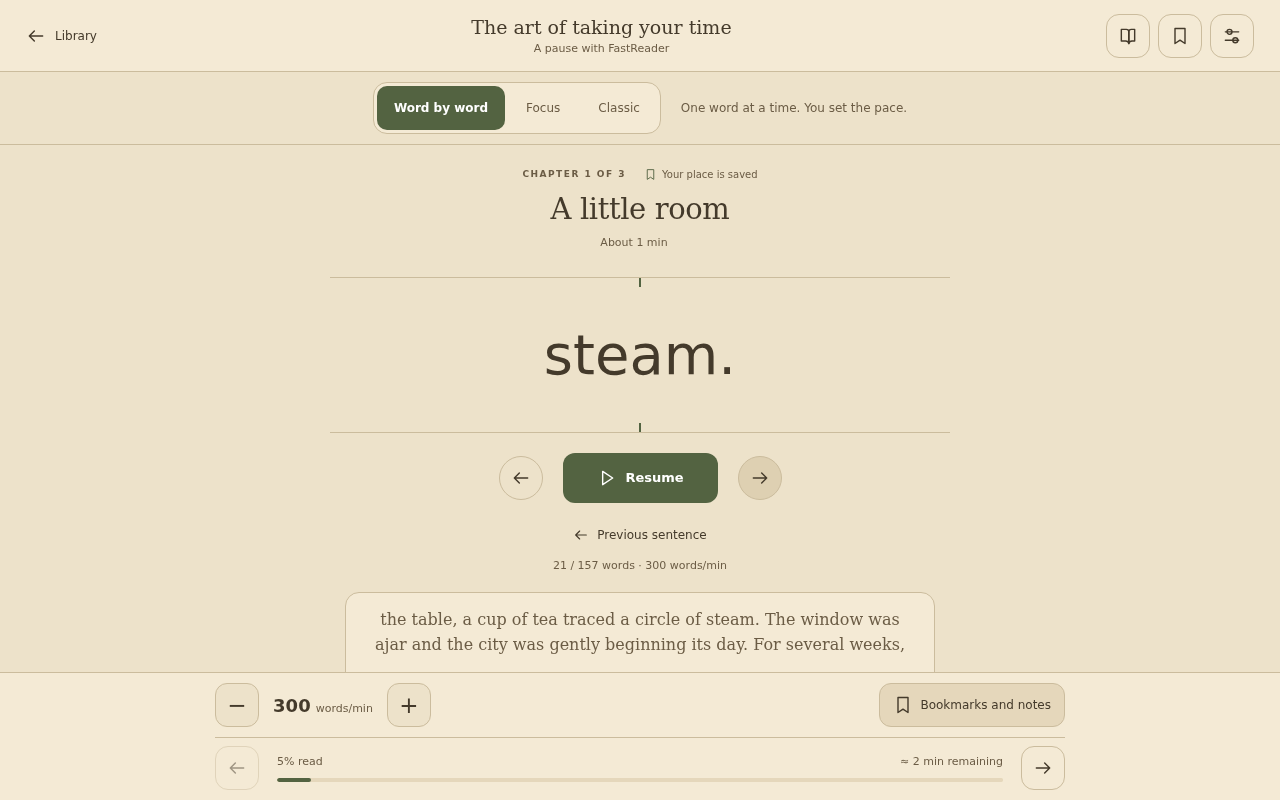
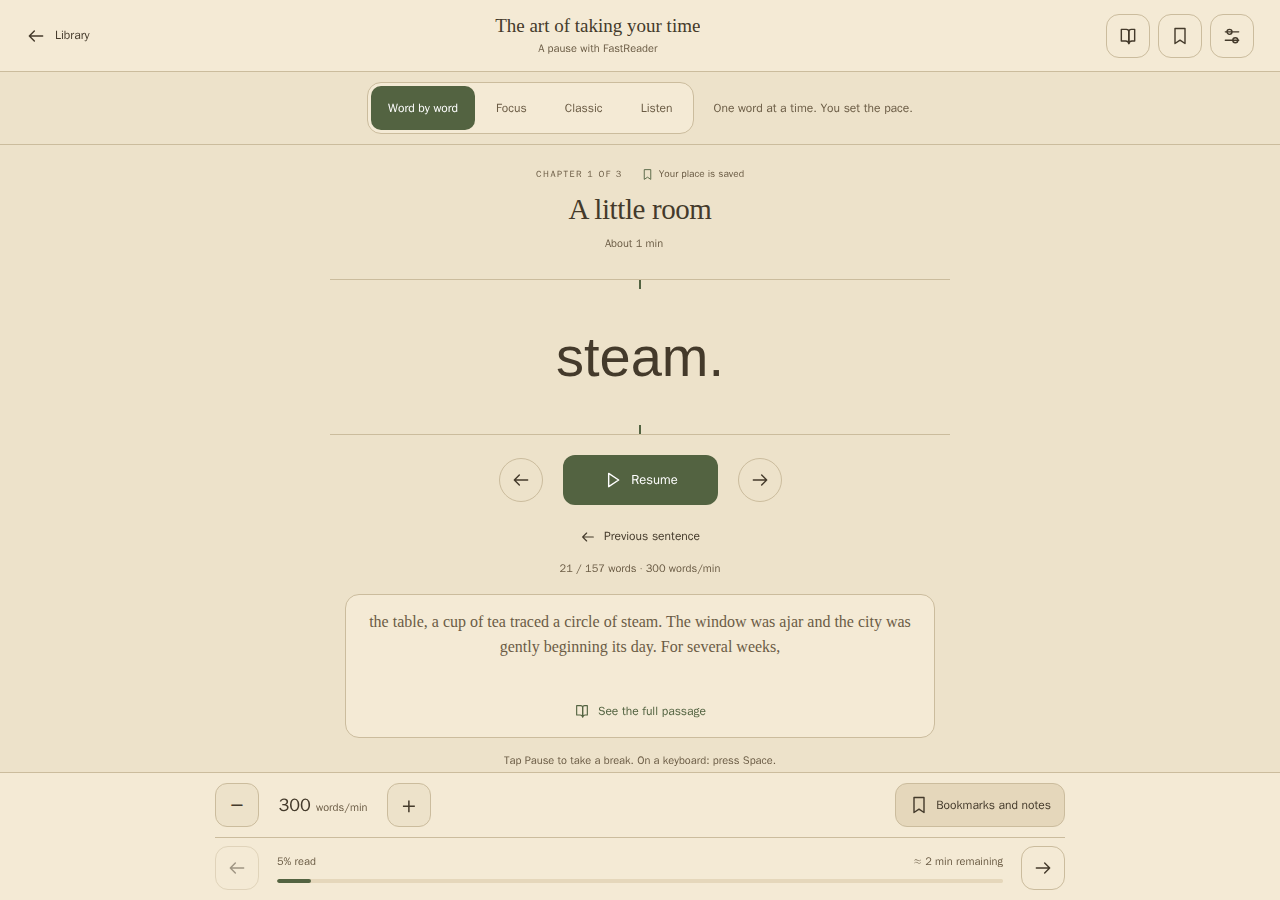
Show listening in the README and exclude local artifacts

diff --git a/README.md b/README.md
@@ -1,6 +1,6 @@
 # FastReader
 
-**Read faster. Finish the books you start.** FastReader turns your EPUBs into a focused reading experience: one word at a time, at the pace you choose. Make progress through your reading list on your phone, tablet or computer.
+**Read faster. Finish the books you start.** FastReader turns your EPUBs into a focused reading experience: one word at a time, at the pace you choose. Switch to **Listen** to hear your book read aloud, with a voice that runs on your device. Read or listen on your phone, tablet or computer.
 
 ## [Start reading →](https://drslid.github.io/EPUB-FastReader/en.html)
 
@@ -8,16 +8,18 @@
 
 [🇬🇧 English](https://drslid.github.io/EPUB-FastReader/en.html) · [🇫🇷 Français](https://drslid.github.io/EPUB-FastReader/?lang=fr) · [🇪🇸 Español](https://drslid.github.io/EPUB-FastReader/es.html) · [🇮🇹 Italiano](https://drslid.github.io/EPUB-FastReader/it.html) · [🇩🇪 Deutsch](https://drslid.github.io/EPUB-FastReader/de.html) · [🇵🇹 Português](https://drslid.github.io/EPUB-FastReader/pt.html)
 
-[![FastReader showing Word by word reading controls and an excerpt](docs/images/fastreader-reader.png)](https://drslid.github.io/EPUB-FastReader/en.html)
+[![FastReader's reader with Word by word, Focus, Classic and Listen modes, playback controls and a book excerpt](docs/images/fastreader-reader.png)](https://drslid.github.io/EPUB-FastReader/en.html)
 
-*Word by word mode, shown with the built-in demonstration.*
+*Four modes within reach: Word by word, Focus, Classic and Listen. Shown with the built-in English demonstration.*
+
+[Explore the reading modes](#four-ways-to-keep-reading) · [See how listening works](#listen-with-a-voice-on-your-device) · [Find a book](#find-your-next-book)
 
 ## From your reading list to the last page
 
 1. **Try it:** open FastReader and tap **Try the reader** for an instant demonstration.
 2. **Choose your book:** browse **Discover**, search by title or author, or tap **Import an EPUB** to open a file you already have.
 3. **Start reading:** tap **Read** on a supported catalogue result. The book opens in the reader and joins **My library** automatically.
-4. **Find your pace:** press play in **Word by word**, adjust the speed, and pause or go back whenever you need to.
+4. **Find your pace:** press play in **Word by word**, adjust the speed, or choose **Listen** to have the book read aloud.
 5. **Pick up later:** open the book from **My library** to return to your reading position.
 
 Search looks through your own books and the catalogues together. Your books come first; catalogue results arrive as each source responds. All book languages are included by default, and you can narrow the search with the language and source filters.
@@ -39,21 +41,23 @@ The aim is to help you spend more time reading and make steady progress. Choose 
 
 **Start listening while the next passages prepare, or save a whole book’s audio for later.** Listening is optional, free, and needs no account, subscription or paid voice service. Your book text stays on your device.
 
+[![FastReader in Listen mode, showing the spoken passage and audio playback controls](docs/images/fastreader-listen.png)](https://drslid.github.io/EPUB-FastReader/en.html)
+
+*Listen to the English demonstration with LJ Speech, follow the current passage and adjust the listening speed.*
+
 **Start from your current passage**
 
 1. Open a book and select **Listen**, then choose the language of its text and a voice.
 2. On first use, choose **Download and listen**. The app shows the download size and progress; you can cancel and resume without losing completed files. With an installed voice, choose **Start listening**.
 3. Follow the text while listening. Use **Pause**, the passage controls and the listening speed slider whenever you need them.
 
-Selecting an installed voice quietly prepares the first passage while you choose, unless another book is already being prepared. Nothing is spoken before you press **Start listening**. The player then shows the current preparation stage, the number of sentences ready and the seconds of audio available. Listening starts automatically as soon as the first complete sentence is ready.
+The player shows preparation progress and starts speaking as soon as the first complete sentence is ready. FastReader prepares upcoming sentences while you listen. On slower devices, an initial wait or pauses between passages are possible; preparing the whole book first avoids these generation waits.
 
 Long web addresses are read as their domain, and invisible formatting characters are cleaned up for speech. If a passage still cannot be spoken, FastReader skips it, tells you how many passages were skipped, and continues. Your book’s text stays unchanged. Interrupted preparations resume from the saved audio instead of starting over.
 
-FastReader prepares upcoming sentences while you listen and automatically uses parallel processing on capable desktop computers. Longer sentences stay together and may take more time to prepare. An initial wait or pauses between passages are still possible, especially on slower devices. Preparing the whole book first avoids these generation waits during listening.
+Choose from six voices: **French (Siwis), English (LJ Speech), Spanish (Davefx), Italian (Paola), German (Thorsten) and Brazilian Portuguese (Faber)**. Each voice needs approximately **63 MB**, plus **30 MB of shared files** on first use. The app shows the download size before you start. Download a voice while connected to the internet, then use it offline. These are the Piper Medium voices currently available in FastReader.
 
-FastReader uses **Piper Medium**, with one selected voice for each language: **French (Siwis), English (LJ Speech), Spanish (Davefx), Italian (Paola), German (Thorsten) and Brazilian Portuguese (Faber)**. Each voice needs approximately **63 MB**, plus **30 MB of shared files** on first use. Adding a language downloads its own voice model; the app shows the actual download size before you start. New voice downloads require an internet connection.
-
-**Manage your audio storage:** choose **Manage audio storage** from the voice chooser or the audio queue. See the space used by each book and downloaded voice, then choose what to remove:
+**Free up space:** choose **Manage audio storage** from the voice chooser or the audio queue. See the space used by each book and downloaded voice, then choose what to remove:
 
 - Delete a book’s audio to remove all its recordings and cancel its preparation.
 - Delete a voice to free its download while keeping prepared recordings.
